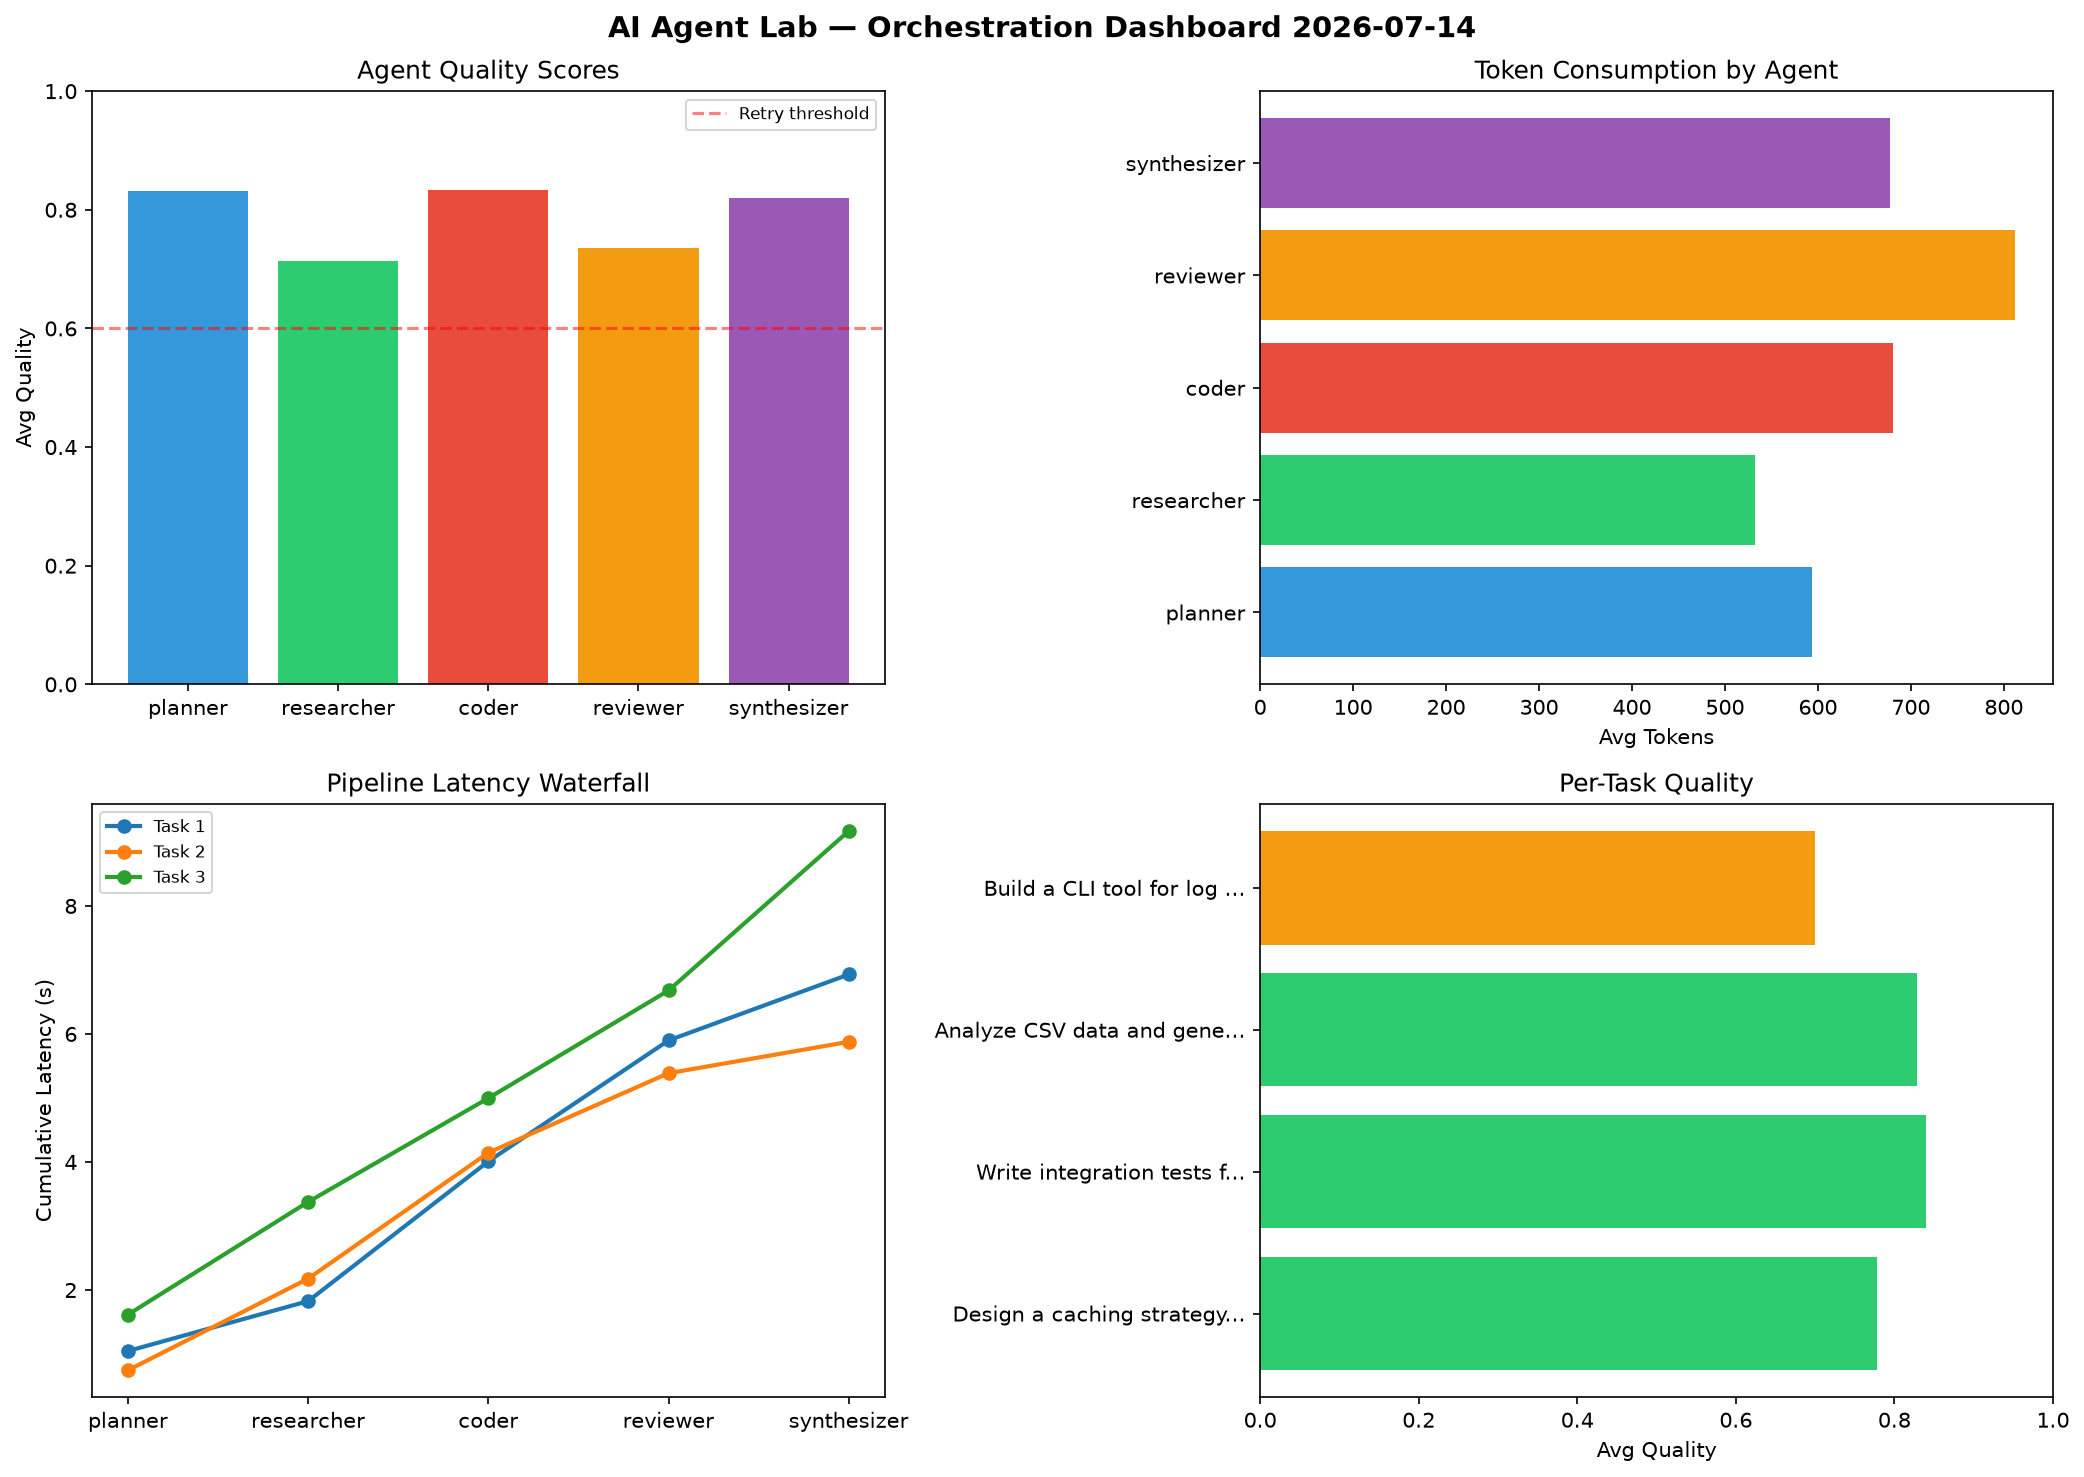
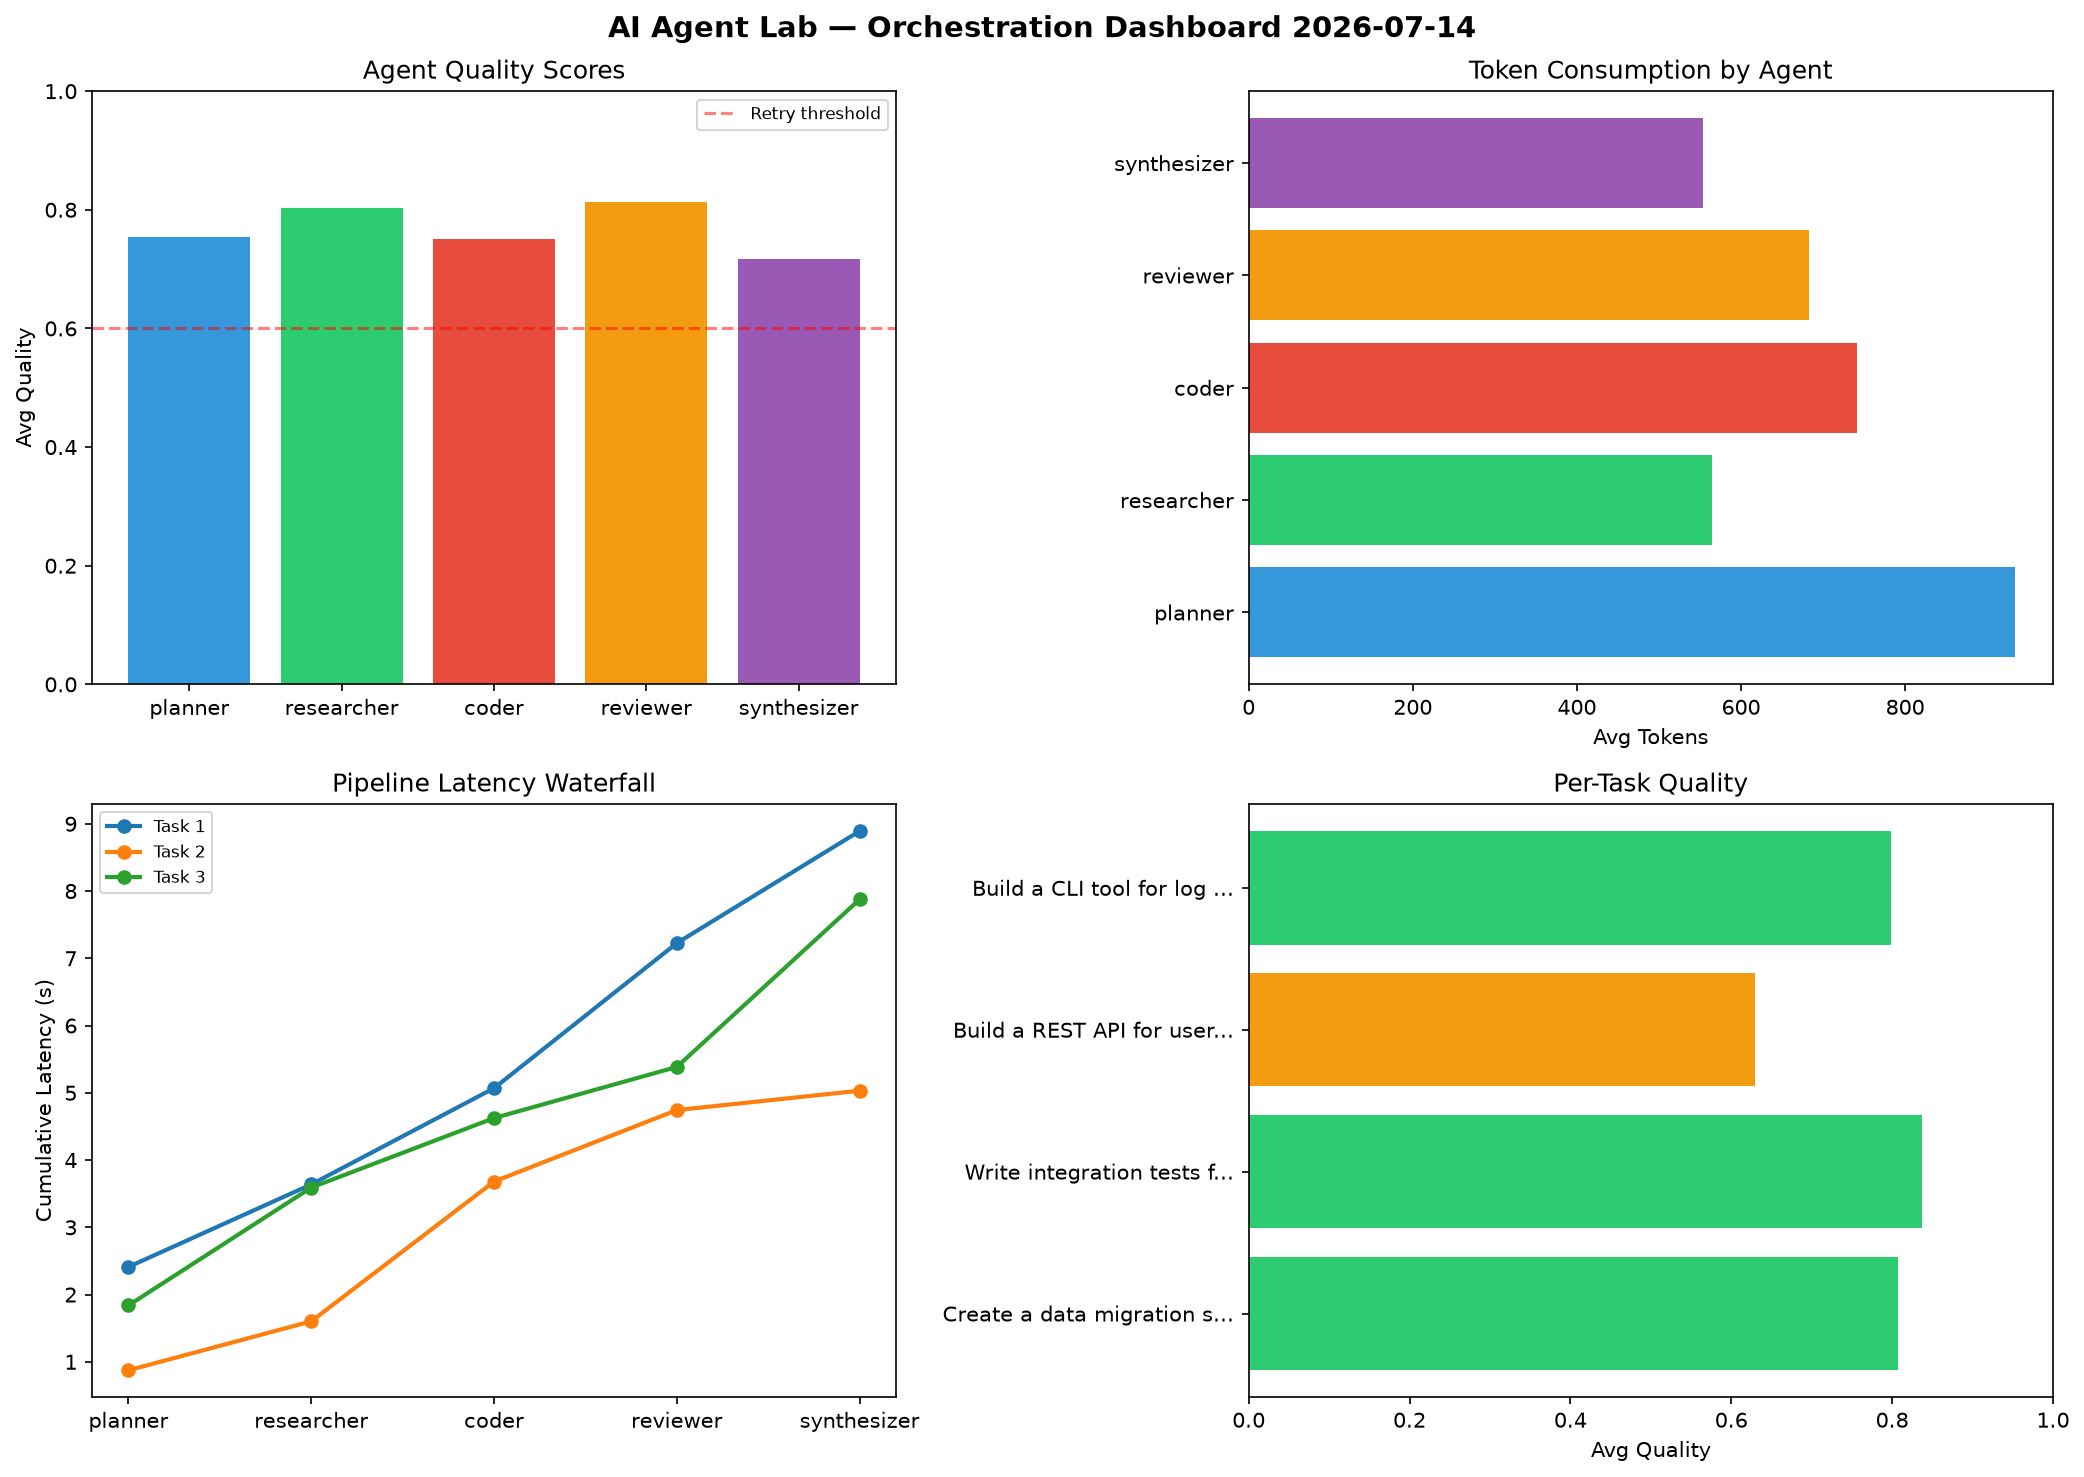
ai-agent-lab: orchestration run 2026-07-14T15:48

diff --git a/logs/2026-07-14.md b/logs/2026-07-14.md
@@ -1,6 +1,6 @@
 # AI Agent Lab — Orchestration Report 2026-07-14
 
-**Run ID:** `e4454fd8af` | **Tasks:** 4 | **Avg Quality:** 0.787
+**Run ID:** `ebf68ee2bf` | **Tasks:** 4 | **Avg Quality:** 0.768
 
 ![Dashboard](2026-07-14_dashboard.png)
 
@@ -8,52 +8,52 @@
 
 | Metric | Value |
 |--------|-------|
-| avg_latency | 6.897 |
-| total_tokens | 13184 |
-| avg_quality | 0.787 |
+| avg_latency | 7.369 |
+| total_tokens | 13898 |
+| avg_quality | 0.768 |
 
 ## Delta vs Yesterday
 
 | Metric | Today | Yesterday | Change |
 |--------|-------|-----------|--------|
-| avg_latency | 6.897 | 6.02 | 📈 14.6% |
-| total_tokens | 13184 | 13905 | 📉 -5.2% |
-| avg_quality | 0.787 | 0.808 | 📉 -2.6% |
+| avg_latency | 7.369 | 6.02 | 📈 22.4% |
+| total_tokens | 13898 | 13905 | 📉 -0.1% |
+| avg_quality | 0.768 | 0.808 | 📉 -5.0% |
 
 ## Pipeline Results
 
-### Design a caching strategy for high-traffic endpoints
+### Create a data migration script for schema v2
 | Agent | Quality | Latency | Tokens | Status |
 |-------|---------|---------|--------|--------|
-| planner | 0.775 | 1.047s | 544 | success |
-| researcher | 0.863 | 0.779s | 604 | success |
-| coder | 0.729 | 2.184s | 463 | success |
-| reviewer | 0.71 | 1.889s | 276 | success |
-| synthesizer | 0.814 | 1.03s | 1005 | success |
+| planner | 0.769 | 2.411s | 1063 | success |
+| researcher | 0.763 | 1.227s | 928 | success |
+| coder | 0.956 | 1.431s | 894 | success |
+| reviewer | 0.888 | 2.157s | 621 | success |
+| synthesizer | 0.661 | 1.666s | 461 | success |
 
 ### Write integration tests for payment processing module
 | Agent | Quality | Latency | Tokens | Status |
 |-------|---------|---------|--------|--------|
-| planner | 0.869 | 0.746s | 560 | success |
-| researcher | 0.639 | 1.431s | 506 | success |
-| coder | 0.935 | 1.968s | 731 | success |
-| reviewer | 0.76 | 1.242s | 1166 | success |
-| synthesizer | 0.997 | 0.49s | 427 | success |
+| planner | 0.979 | 0.874s | 1142 | success |
+| researcher | 0.868 | 0.728s | 634 | success |
+| coder | 0.875 | 2.078s | 413 | success |
+| reviewer | 0.749 | 1.063s | 627 | success |
+| synthesizer | 0.712 | 0.288s | 724 | success |
 
-### Analyze CSV data and generate statistical summary
+### Build a REST API for user authentication
 | Agent | Quality | Latency | Tokens | Status |
 |-------|---------|---------|--------|--------|
-| planner | 0.789 | 1.616s | 1030 | success |
-| researcher | 0.644 | 1.76s | 591 | success |
-| coder | 0.885 | 1.621s | 691 | success |
-| reviewer | 0.908 | 1.682s | 918 | success |
-| synthesizer | 0.921 | 2.491s | 769 | success |
+| planner | 0.56 | 1.839s | 812 | needs_retry |
+| researcher | 0.725 | 1.752s | 467 | success |
+| coder | 0.551 | 1.033s | 1162 | needs_retry |
+| reviewer | 0.758 | 0.761s | 640 | success |
+| synthesizer | 0.553 | 2.492s | 328 | needs_retry |
 
 ### Build a CLI tool for log analysis
 | Agent | Quality | Latency | Tokens | Status |
 |-------|---------|---------|--------|--------|
-| planner | 0.897 | 0.435s | 240 | success |
-| researcher | 0.712 | 1.655s | 429 | success |
-| coder | 0.784 | 1.098s | 837 | success |
-| reviewer | 0.562 | 1.852s | 889 | needs_retry |
-| synthesizer | 0.547 | 0.572s | 508 | needs_retry |
+| planner | 0.707 | 1.314s | 717 | success |
+| researcher | 0.854 | 1.332s | 230 | success |
+| coder | 0.623 | 1.865s | 494 | success |
+| reviewer | 0.86 | 0.679s | 841 | success |
+| synthesizer | 0.944 | 2.487s | 700 | success |
